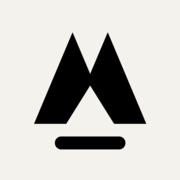
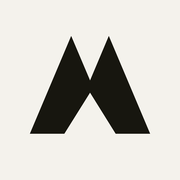
feat: no-bar brand mark and legal footer links

Changed region(s): [[0.1667, 0.1667, 0.8333, 0.8333], [0.2222, 0.5556, 0.25, 0.6389]]

diff --git a/components/layout/document-container.tsx b/components/layout/document-container.tsx
@@ -2,15 +2,18 @@ import Link from "next/link";
 import { GitHubIcon } from "@/components/icons/brand-icons";
 import { LocationMap } from "@/components/resume/location-map";
 import { VisitorCounter } from "@/components/resume/visitor-counter";
+import type { SiteMeta } from "@/lib/types/resume";
 
 interface DocumentContainerProps {
   children: React.ReactNode;
   showCounter?: boolean;
+  legal?: SiteMeta["legal"];
 }
 
 export function DocumentContainer({
   children,
   showCounter,
+  legal,
 }: DocumentContainerProps) {
   return (
     <>
@@ -35,8 +38,7 @@ export function DocumentContainer({
                 aria-hidden="true"
                 className="size-5 shrink-0"
               >
-                <path d="M39 14 L50 40 L61 14 L85 71 L65 71 L50 47 L35 71 L15 71 Z" />
-                <rect x="28" y="79" width="44" height="8" rx="4" />
+                <path d="M36.9 12.5 L50 43.45 L63.1 12.5 L91.67 80.36 L67.86 80.36 L50 51.79 L32.14 80.36 L8.33 80.36 Z" />
               </svg>
               <span className="h-px flex-1 bg-current" />
             </div>
@@ -76,6 +78,19 @@ export function DocumentContainer({
                 </Link>
               </span>
             </div>
+
+            {legal && legal.length > 0 && (
+              <nav
+                aria-label="Legal"
+                className="flex flex-wrap items-center justify-center gap-x-3 gap-y-1 text-xs text-muted-foreground/60"
+              >
+                {legal.map(({ label, url }) => (
+                  <Link key={url} href={url} className="hover:text-foreground">
+                    {label}
+                  </Link>
+                ))}
+              </nav>
+            )}
           </div>
         </footer>
       </main>

diff --git a/components/resume/contact-header.tsx b/components/resume/contact-header.tsx
@@ -39,8 +39,7 @@ export function ContactHeader({ name, bio, contact }: ContactHeaderProps) {
         aria-hidden="true"
         className="mx-auto mb-4 size-12"
       >
-        <path d="M39 14 L50 40 L61 14 L85 71 L65 71 L50 47 L35 71 L15 71 Z" />
-        <rect x="28" y="79" width="44" height="8" rx="4" />
+        <path d="M36.9 12.5 L50 43.45 L63.1 12.5 L91.67 80.36 L67.86 80.36 L50 51.79 L32.14 80.36 L8.33 80.36 Z" />
       </svg>
       <h1 className="font-heading text-4xl font-bold md:text-5xl">{name}</h1>
       {bio && (

diff --git a/app/layout.tsx b/app/layout.tsx
@@ -85,7 +85,10 @@ export default async function RootLayout({
         className={`${spaceGrotesk.variable} ${ibmPlexMono.variable} antialiased`}
       >
         <ThemeProvider>
-          <DocumentContainer showCounter={resumeData.meta.counter}>
+          <DocumentContainer
+            showCounter={resumeData.meta.counter}
+            legal={resumeData.meta.legal}
+          >
             <ThemeToggle />
             {children}
           </DocumentContainer>

diff --git a/lib/types/resume.ts b/lib/types/resume.ts
@@ -106,6 +106,7 @@ export const SectionSchema = z.object({
 export const SiteMetaSchema = z.object({
   keywords: z.array(z.string()),
   counter: z.boolean().optional(),
+  legal: z.array(z.object({ label: z.string(), url: z.string() })).optional(),
 });
 
 // Root resume type
